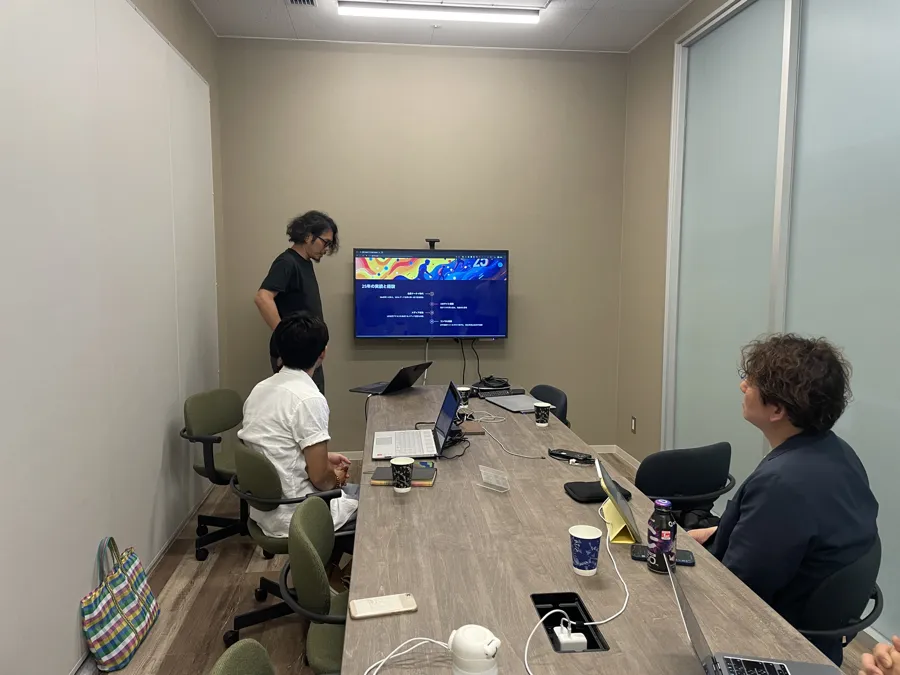
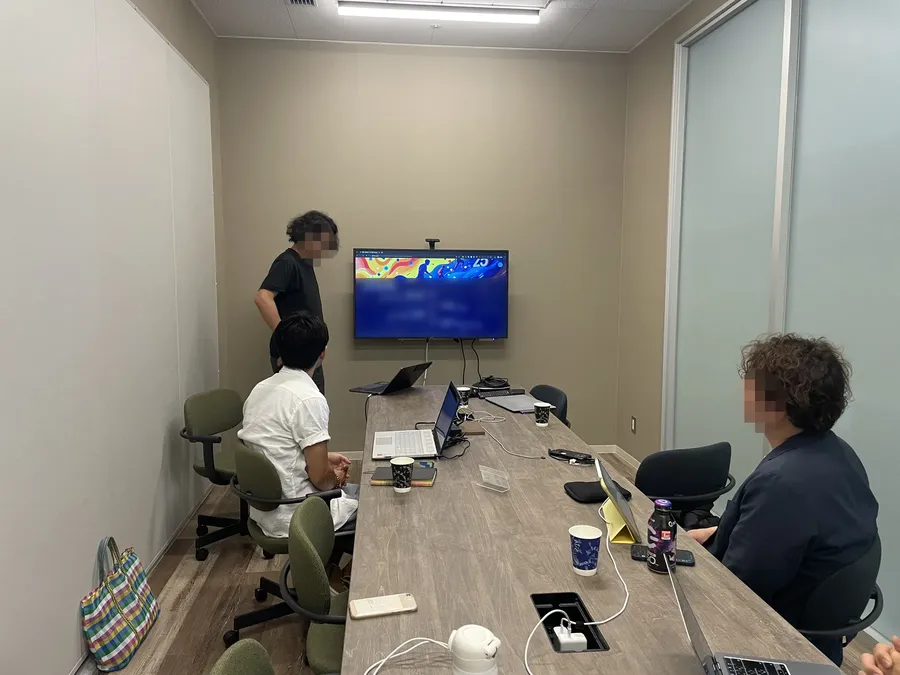
トップページ: 研修の写真（顔を加工）と仕上げたアイコンに差し替え、満足度と登壇回数の表記をそろえる
- 選ばれる理由01の写真を研修の様子の写真に（受講者の顔はモザイク、発表画面の文字はぼかし）
- お悩みのアイコン4点を高品質で作り直し
- 満足度は4.8（受講後アンケート平均）、年300回以上は2025年度の研修・セミナーの登壇
- 見出しが1文字だけ次の行に落ちないように折り返しを整える

Changed region(s): [[0.3733, 0.4044, 0.56, 0.4978], [0.8089, 0.56, 0.8711, 0.6222], [0.3422, 0.3422, 0.3733, 0.4044]]

diff --git a/src/data/site.ts b/src/data/site.ts
@@ -15,9 +15,9 @@ export const SITE = {
 
 export const STATS = [
   { value: 100, unit: '社超え', label: '累計支援企業数', note: '※2026年11月時点' },
-  // 満足度は /dx/（公表文書）の成果指標と同じ実測値。期間と件数を必ず添える。片方だけ変えない。
-  { value: 4.6, unit: '', label: '研修満足度（5点満点）', note: '※2026年4〜10月・受講後アンケート419件の平均', decimals: 1 },
-  { value: 300, unit: '回以上', label: '年間の研修・セミナー・打ち合わせ', note: '※2025年・代表 末松の実施回数' },
+  // 満足度は受講後アンケートの平均。/dx/ の成果指標（2026年4〜10月の419件の集計で4.6）とは別の数字。
+  { value: 4.8, unit: '', label: '研修満足度（5点満点）', note: '※受講後アンケート平均', decimals: 1 },
+  { value: 300, unit: '回以上', label: '年間の研修・セミナー登壇', note: '※2025年度・代表 末松の登壇回数' },
   { value: 100, unit: '%対面', label: 'ハンズオン形式の研修', note: '※オンライン併用も可能' },
 ];
 

diff --git a/src/styles/global.css b/src/styles/global.css
@@ -110,7 +110,7 @@ a, button { -webkit-tap-highlight-color: transparent; }
   margin-bottom: 14px;
 }
 .sec-head .en::before { content: ""; width: 34px; height: 2px; background: var(--accent-grad); border-radius: 2px; }
-.sec-head h2 { font-size: clamp(26px, 3.6vw, 40px); font-weight: 800; letter-spacing: 0.02em; }
+.sec-head h2 { font-size: clamp(26px, 3.6vw, 40px); font-weight: 800; letter-spacing: 0.02em; text-wrap: balance; word-break: auto-phrase; }
 .sec-head .lead { margin-top: 18px; color: var(--ink-soft); max-width: 46em; }
 .section--navy .sec-head .en { color: var(--cyan-400); }
 .section--navy .sec-head .lead { color: rgba(255, 255, 255, 0.78); }

diff --git a/tools/gen_home_assets.py b/tools/gen_home_assets.py
@@ -17,7 +17,8 @@ QUALITY = os.environ.get('QUALITY', 'low')
 JOBS = {
     'icon-worry-team': ('1:1', ICON +
         "Three simple abstract person figures side by side (rounded head and shoulders, no faces). The one on the left glows bright electric blue, "
-        "the other two are dim, pale grey-blue and unlit, meaning 'only one person in the team is using it'.", 360),
+        "the other two are dim, pale grey-blue and unlit, meaning 'only one person in the team is using it'. "
+        "The figures stand directly on the plain white background: no tile, no card, no rounded square plate behind them.", 360),
     'icon-worry-start': ('1:1', ICON +
         "A wooden-style signpost made of glass with three blank arrow boards pointing in three different directions, and a small compass at its base, "
         "meaning 'not sure which way to start'. The boards are completely blank.", 360),

diff --git a/SPEC.md b/SPEC.md
@@ -1,7 +1,7 @@
 # WizTry公式サイト 実装仕様書
 
 > **この仕様メモは初版の設計時点のもの。いまの文面はソース（src/）が正。**
-> 2026-11-28 時点の書き方の決まり: ①研修を受講企業ごとに作り変える・実際の書類を教材にする、と読める言い方をしない（業種別の事例を体系化した教材・職種や役割別のコース）②補助金・助成金は「対象となる場合がある」「制度のご案内」まで。申請の代行や書類づくりを請け負うと読める言い方、出典のない補助率の数字、無料・実質負担の話は書かない ③満足度は 4.6（2026年4〜10月の受講後アンケート419件の平均。/dx/ の公表文書と同じ値）で、期間と件数を添える ④トップページの構成は 2026-11-28 に作り直した（下の「1.」節は旧構成）。
+> 2026-11-28 時点の書き方の決まり: ①研修を受講企業ごとに作り変える・実際の書類を教材にする、と読める言い方をしない（業種別の事例を体系化した教材・職種や役割別のコース）②補助金・助成金は「対象となる場合がある」「制度のご案内」まで。申請の代行や書類づくりを請け負うと読める言い方、出典のない補助率の数字、無料・実質負担の話は書かない ③満足度は 4.8（受講後アンケート平均）。/dx/ の成果指標（2026年4〜10月の419件の集計で4.6）は公表文書なので文面を変えない。年300回以上は「2025年度の研修・セミナーの登壇」 ④トップページの構成は 2026-11-28 に作り直した（下の「1.」節は旧構成）。
 
 このリポジトリはAstro 5の静的サイト。実装エージェントは担当ページのみを作成すること。
 
